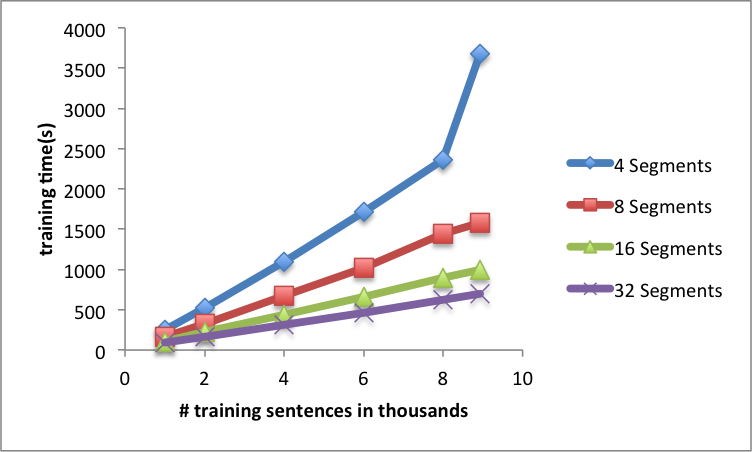
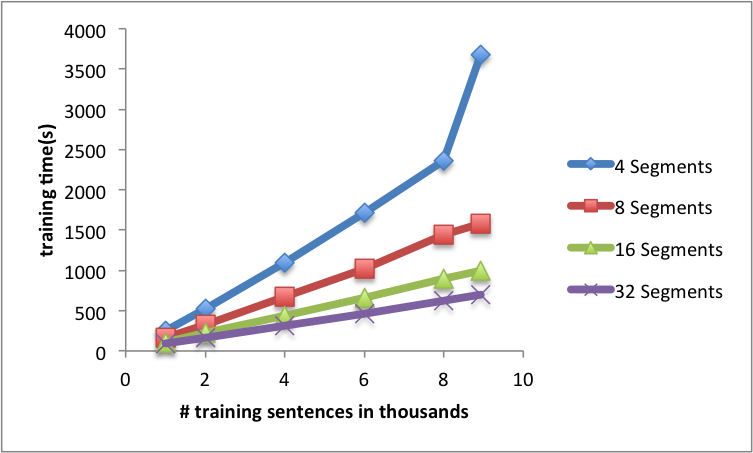
add inference results

diff --git a/naaclhlt2013.tex b/naaclhlt2013.tex
@@ -445,7 +445,7 @@ To evaluate the inference performance, we extracted 1 million sentences from the
 
 \begin{figure}
 \centering
-\includegraphics[height=11em]{training}
+\includegraphics[height=11em]{testing}
 \caption{Linear-chain CRF inference scalability}
 \label{fig:crftrain}
 \end{figure}
